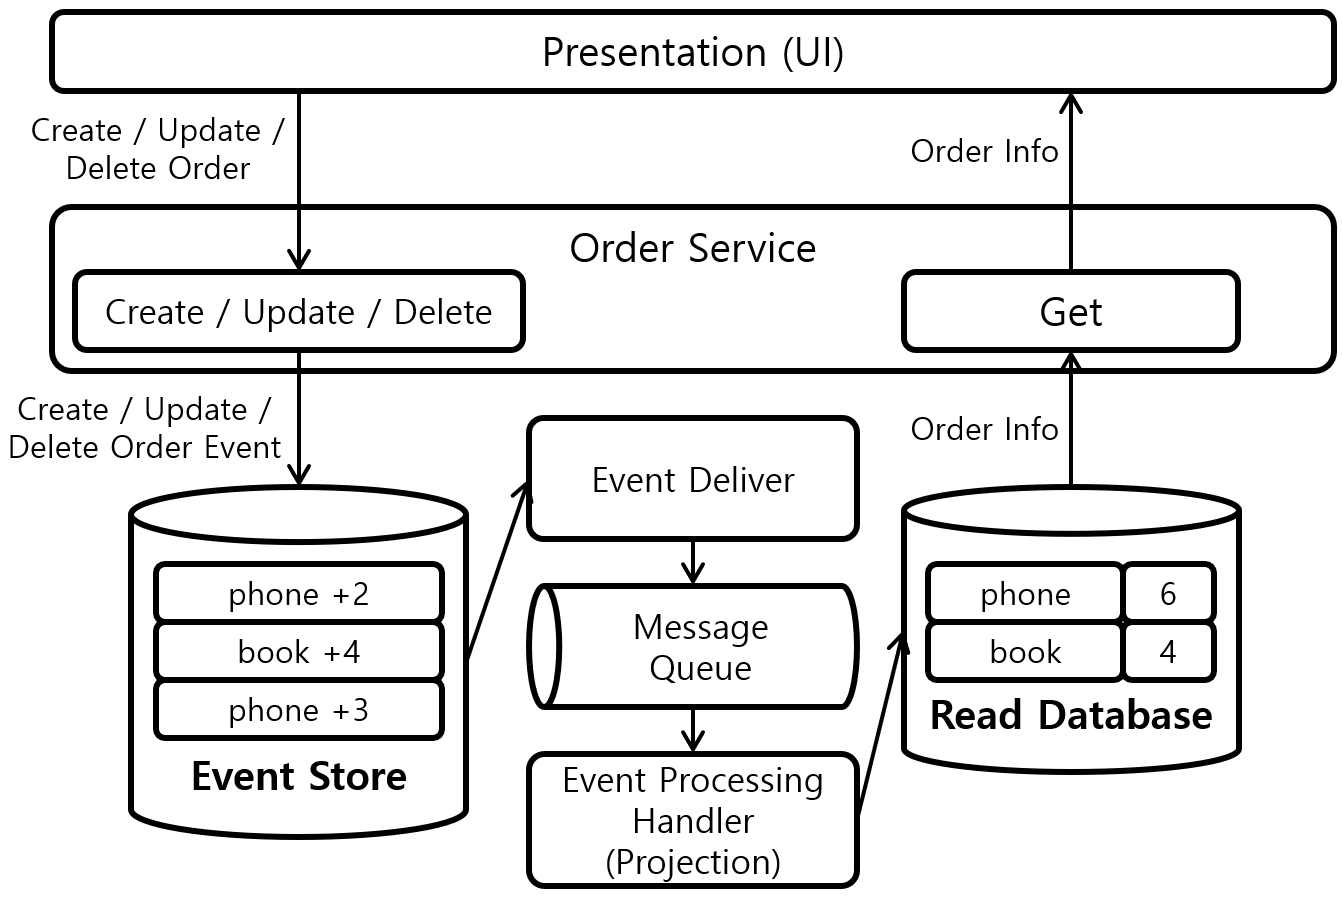
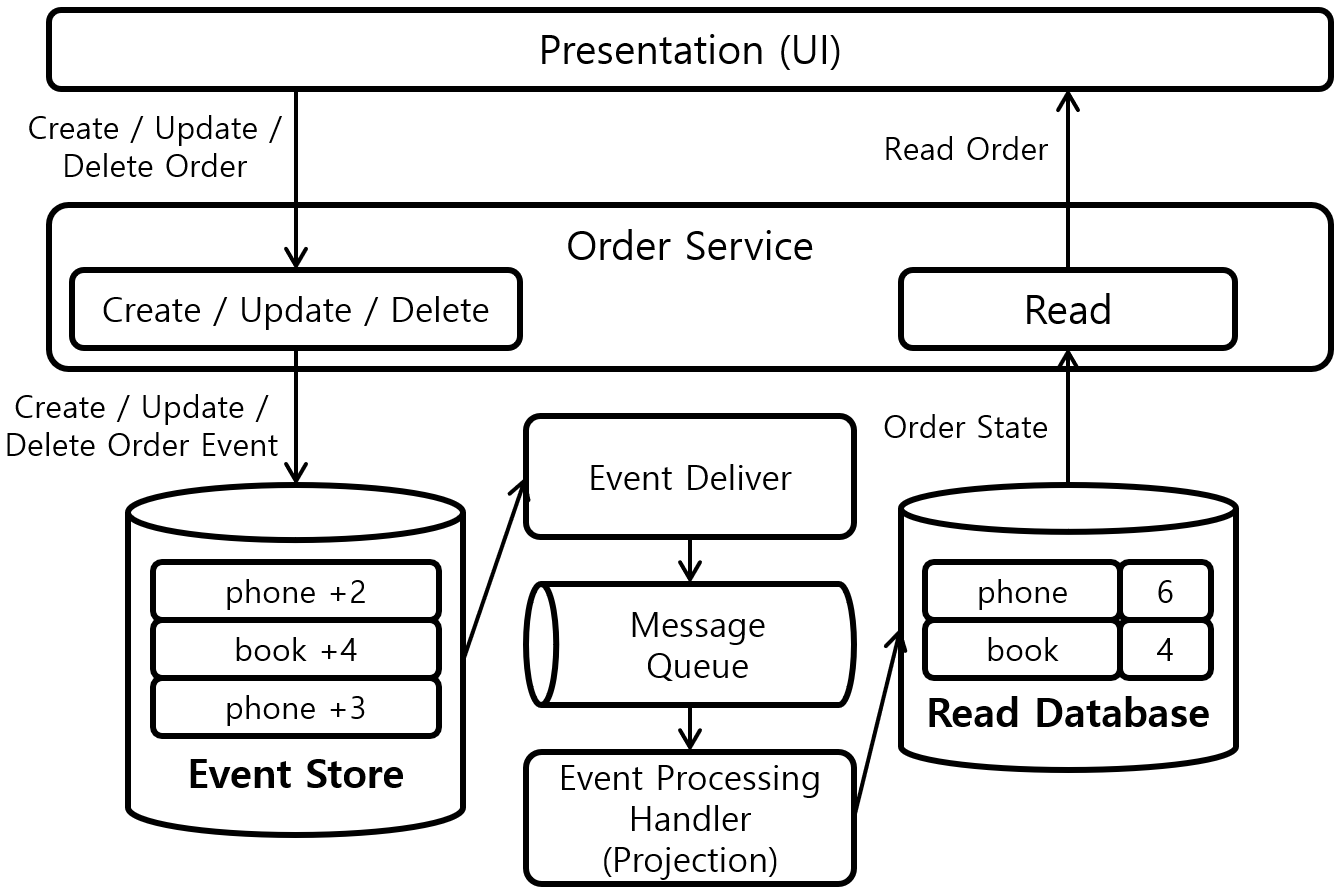
Update

diff --git a/_docs/theory_analysis/Design_Pattern_CQRS.md b/_docs/theory_analysis/Design_Pattern_CQRS.md
@@ -1,5 +1,5 @@
 ---
-title: Design Pattern CQRS
+title: Design Pattern CQRS (Command and Query Responsibility Segregation)
 category: Theory, Analysis
 date: 2021-06-02T12:00:00Z
 lastmod: 2021-06-02T12:00:00Z
@@ -7,13 +7,19 @@ comment: true
 adsense: true
 ---
 
-CQRS Pattern을 분석한다.
+CQRS (Command and Query Responsibility Segregation) Pattern을 분석한다.
 
-### 1. CQRS Pattern
+### 1. CQRS (Command and Query Responsibility Segregation) Pattern
 
 ![[그림 1] CQRS Pattern]({{site.baseurl}}/images/theory_analysis/Design_Pattern_CQRS/CQRS_Pattern.PNG){: width="600px"}
 
+CQRS (Command and Query Responsibility Segregation) Pattern은 의미 그대로 Command Responsibility와 Query Responsibility을 분리하는 Pattern을 의미한다. 여기서 Responsibility는 Model을 의미한다. 즉 Command와 Query가 다른 **Model**을 이용하여 동작하는 방식을 의미한다. 
+
+[그림 1]은 CQRS Pattern을 나타내고 있다. **Command**는 **State, Report**를 변경하는 Create, Update, Delete 동작을 의미하고, **Query**는 State, Report를 Read하는 동작을 의미한다. Command와 Query는 서로 다른 Model로 동작하며, Command Model의 Command가 Query Model로 전파되어 Query Model의 State, Report를 변경한다. [그림 1]에서는 Command Model과 Query Model이 서로다른 Database를 이용하는 것을 나타냈지만, Database에 따라서 하나의 Database에서 처리될 수 있다.
+
 ![[그림 2] Event Sourcing Pattern]({{site.baseurl}}/images/theory_analysis/Design_Pattern_CQRS/Event_Sourcing_Pattern.PNG){: width="600px"}
+
+CQRS Pattern을 이용하는 대표적인 곳이 Event Sourcing Pattern이다. [그림 2]는 Event Sourcing Pattern을 이용하는 Order Service에 적용한 CQRS Pattern을 나타내고 있다. Event Soucing Pattern에서 Event는 CQRS Pattern의 Command와 일치한다. Create, Update, Delete Order 동작을 통해서 생성된 Event는 Event Store에 저장되며, Message Queue를 통해서 Read Database에 비동기 적으로 Event가 반영된다. 이후에 Read Order 동작은 Read Database에 저장된 Order의 상태 정보를 이용한다.
 
 ### 2. 참조
 
